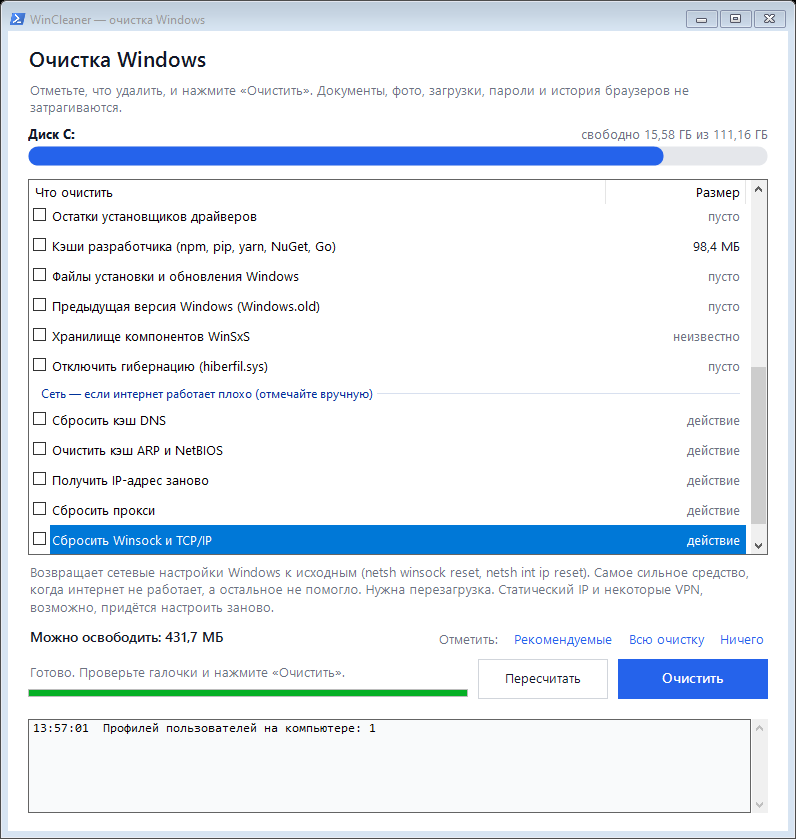
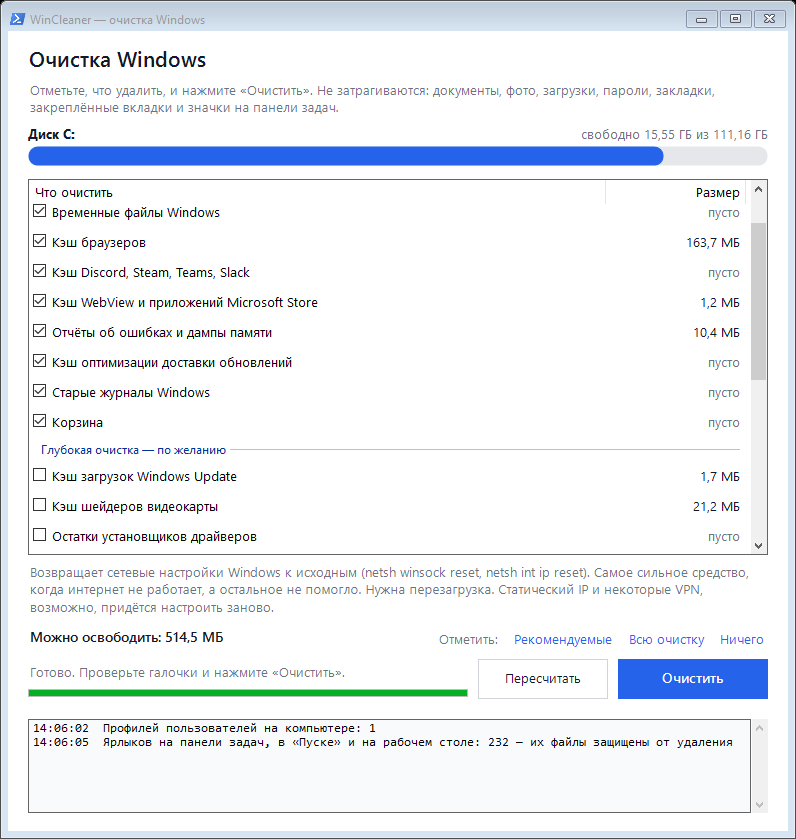
Never touch bookmarks, pinned tabs and taskbar pins
- Stop closing browser windows: ask the user to exit the browser instead.
  Closing windows one by one made the browser remember only the last window,
  losing other windows and their pinned tabs. Only window-less background
  processes (e.g. Edge startup boost) are ended; Steam never is.
- Read every .lnk on the taskbar, Start menu and desktop before scanning and
  cleaning; files, icons and working folders they point to are never deleted.
- Firefox: keep thumbnails (new-tab tiles) and jumpListCache (taskbar menu icons).
- README: document what is guaranteed to stay untouched.

Claude-Session: https://claude.ai/code/session_015hKn49dFBEaKCxaQnPR6UA

diff --git a/src/WinCleaner.cs b/src/WinCleaner.cs
@@ -22,8 +22,8 @@ using Microsoft.Win32;
 [assembly: AssemblyTitle("WinCleaner")]
 [assembly: AssemblyDescription("Очистка Windows от временных файлов и кэшей")]
 [assembly: AssemblyProduct("WinCleaner")]
-[assembly: AssemblyVersion("1.0.0.0")]
-[assembly: AssemblyFileVersion("1.0.0.0")]
+[assembly: AssemblyVersion("1.1.0.0")]
+[assembly: AssemblyFileVersion("1.1.0.0")]
 
 namespace WinCleaner
 {
@@ -60,6 +60,7 @@ namespace WinCleaner
         public string[] Local = new string[0];
         public string[] Roaming = new string[0];
         public bool Firefox;
+        public bool NeverKill;              // даже фоновый процесс не завершаем (Steam: может идти игра или загрузка)
     }
 
     sealed class CleanItem
@@ -109,7 +110,13 @@ namespace WinCleaner
                     try { a = fsi.Attributes; } catch { continue; }
                     if ((a & FileAttributes.ReparsePoint) != 0) continue;
                     var sub = fsi as DirectoryInfo;
-                    if (sub != null) { dirs.Add(sub); stack.Push(sub); continue; }
+                    if (sub != null)
+                    {
+                        if (IsProtectedDir(sub.FullName)) continue;
+                        dirs.Add(sub);
+                        stack.Push(sub);
+                        continue;
+                    }
                     var f = (FileInfo)fsi;
                     if (keep != null && keep.Contains(f.Name, StringComparer.OrdinalIgnoreCase)) continue;
                     freed += DeleteFile(f, cutoff, c.DryRun);
@@ -130,10 +137,42 @@ namespace WinCleaner
             return freed;
         }
 
+        // Файлы и папки, на которые ссылаются ярлыки панели задач, «Пуска» и рабочего стола (см. Pins).
+        // Их не удаляем никогда, даже если они лежат во временной папке. Наборы заменяются целиком.
+        static HashSet<string> protFiles = new HashSet<string>(StringComparer.OrdinalIgnoreCase);
+        static HashSet<string> protDirs = new HashSet<string>(StringComparer.OrdinalIgnoreCase);
+
+        public static void SetProtected(IEnumerable<string> paths)
+        {
+            var files = new HashSet<string>(StringComparer.OrdinalIgnoreCase);
+            var dirs = new HashSet<string>(StringComparer.OrdinalIgnoreCase);
+            foreach (var raw in paths)
+            {
+                string p;
+                try
+                {
+                    p = Environment.ExpandEnvironmentVariables(raw.Trim().Trim('"'));
+                    if (!Path.IsPathRooted(p)) continue;
+                    p = Path.GetFullPath(p).TrimEnd('\\');
+                }
+                catch { continue; }
+                if (Directory.Exists(p)) { dirs.Add(p); continue; }
+                files.Add(p);
+                string parent = Path.GetDirectoryName(p);
+                if (!string.IsNullOrEmpty(parent)) dirs.Add(parent.TrimEnd('\\'));
+            }
+            protFiles = files;
+            protDirs = dirs;
+        }
+
+        static bool IsProtectedFile(string p) { var s = protFiles; return s.Count > 0 && s.Contains(p); }
+        static bool IsProtectedDir(string p) { var s = protDirs; return s.Count > 0 && s.Contains(p.TrimEnd('\\')); }
+
         static long DeleteFile(FileInfo f, DateTime cutoff, bool dry)
         {
             try
             {
+                if (IsProtectedFile(f.FullName)) return 0;
                 if (f.LastWriteTime > cutoff || f.CreationTime > cutoff) return 0;
                 long len = f.Length;
                 if (!dry)
@@ -415,13 +454,85 @@ namespace WinCleaner
             return l.Count > 0;
         }
 
-        // Сначала вежливо (как крестик окна), через 8 секунд — принудительно.
-        public static void Close(AppDef a)
+        public static bool HasWindow(AppDef a)
         {
-            foreach (var p in Find(a)) using (p) { try { p.CloseMainWindow(); } catch { } }
-            for (int i = 0; i < 16 && IsRunning(a); i++) Thread.Sleep(500);
+            bool any = false;
+            foreach (var p in Find(a))
+            {
+                try { if (p.MainWindowHandle != IntPtr.Zero) any = true; } catch { }
+                p.Dispose();
+            }
+            return any;
+        }
+
+        // Завершает только фоновые процессы без окон (например, Edge с «ускорением запуска») — сессия
+        // браузера к этому моменту уже сохранена. Окна не закрываем никогда: если закрывать их по одному,
+        // браузер запомнит только последнее окно и остальные окна с закреплёнными вкладками пропадут.
+        public static bool KillBackground(AppDef a)
+        {
+            if (a.NeverKill || HasWindow(a)) return false;
             foreach (var p in Find(a)) using (p) { try { p.Kill(); } catch { } }
             Thread.Sleep(700);
+            return true;
+        }
+    }
+
+    // Ярлыки на панели задач, в «Пуске» и на рабочем столе всех пользователей: всё, на что они
+    // указывают (программа, значок, рабочая папка), попадает в защищённый список Fs.
+    static class Pins
+    {
+        public static int Load(List<string> users)
+        {
+            var lnks = new List<string>();
+            string pd = Environment.GetFolderPath(Environment.SpecialFolder.CommonApplicationData);
+            foreach (var u in users)
+            {
+                Collect(lnks, Path.Combine(u, @"AppData\Roaming\Microsoft\Internet Explorer\Quick Launch"), 4);
+                Collect(lnks, Path.Combine(u, @"AppData\Roaming\Microsoft\Windows\Start Menu"), 6);
+                Collect(lnks, Path.Combine(u, "Desktop"), 0);
+                Collect(lnks, Path.Combine(u, @"OneDrive\Desktop"), 0);
+            }
+            Collect(lnks, Path.Combine(pd, @"Microsoft\Windows\Start Menu"), 6);
+            Collect(lnks, Environment.GetFolderPath(Environment.SpecialFolder.CommonDesktopDirectory), 0);
+            Collect(lnks, Environment.GetFolderPath(Environment.SpecialFolder.DesktopDirectory), 0);
+            lnks = lnks.Distinct(StringComparer.OrdinalIgnoreCase).ToList();
+
+            var paths = new List<string>();
+            object shell = null;
+            try { shell = Activator.CreateInstance(Type.GetTypeFromProgID("WScript.Shell")); } catch { }
+            if (shell != null)
+            {
+                foreach (var l in lnks)
+                {
+                    try
+                    {
+                        object sc = shell.GetType().InvokeMember("CreateShortcut", BindingFlags.InvokeMethod, null, shell, new object[] { l });
+                        paths.Add(Prop(sc, "TargetPath"));
+                        paths.Add(Prop(sc, "WorkingDirectory"));
+                        string icon = Prop(sc, "IconLocation");
+                        int comma = icon.LastIndexOf(',');
+                        paths.Add(comma > 0 ? icon.Substring(0, comma) : icon);
+                        Marshal.ReleaseComObject(sc);
+                    }
+                    catch { }
+                }
+                Marshal.ReleaseComObject(shell);
+            }
+            Fs.SetProtected(paths.Where(p => !string.IsNullOrEmpty(p)));
+            return lnks.Count;
+        }
+
+        static string Prop(object o, string name)
+        {
+            return (o.GetType().InvokeMember(name, BindingFlags.GetProperty, null, o, null) as string) ?? "";
+        }
+
+        static void Collect(List<string> res, string dir, int depth)
+        {
+            if (string.IsNullOrEmpty(dir) || !Directory.Exists(dir)) return;
+            try { res.AddRange(Directory.GetFiles(dir, "*.lnk")); } catch { }
+            if (depth <= 0) return;
+            foreach (var d in Fs.SubDirs(dir)) Collect(res, d, depth - 1);
         }
     }
 
@@ -454,7 +565,7 @@ namespace WinCleaner
             new AppDef { Name = "Discord", Procs = new[] { "Discord" }, Roaming = new[] { "discord" } },
             new AppDef { Name = "Slack", Procs = new[] { "slack" }, Roaming = new[] { "Slack" } },
             new AppDef { Name = "Microsoft Teams", Procs = new[] { "Teams" }, Roaming = new[] { @"Microsoft\Teams" } },
-            new AppDef { Name = "Steam", Procs = new[] { "steam", "steamwebhelper" }, Local = new[] { @"Steam\htmlcache" } },
+            new AppDef { Name = "Steam", Procs = new[] { "steam", "steamwebhelper" }, NeverKill = true, Local = new[] { @"Steam\htmlcache" } },
         };
 
         static IEnumerable<string> Roots(AppDef a, string user)
@@ -501,7 +612,8 @@ namespace WinCleaner
                     if (a.Firefox)
                     {
                         foreach (var p in Fs.SubDirs(Path.Combine(u, @"AppData\Local\Mozilla\Firefox\Profiles")))
-                            foreach (var n in new[] { "cache2", "startupCache", "thumbnails", "jumpListCache" })
+                            // thumbnails (картинки плиток новой вкладки) и jumpListCache (значки меню на панели задач) не трогаем
+                            foreach (var n in new[] { "cache2", "startupCache" })
                                 s += Fs.ClearDir(c, Path.Combine(p, n));
                     }
                     else
@@ -549,7 +661,7 @@ namespace WinCleaner
             L.Add(new CleanItem
             {
                 Title = "Кэш браузеров",
-                Description = "Chrome, Edge, Яндекс, Opera, Brave, Vivaldi, Firefox. Удаляется только кэш: пароли, история, закладки, cookies и вкладки остаются. Если браузер открыт, программа предложит его закрыть.",
+                Description = "Chrome, Edge, Яндекс, Opera, Brave, Vivaldi, Firefox. Удаляется только кэш. Закладки и панель закладок, закреплённые вкладки, табло и экспресс-панель, пароли, история и cookies остаются. Открытый браузер программа не закрывает — попросит закрыть его самостоятельно.",
                 Apps = Browsers,
                 Run = c => ClearApps(c, Browsers)
             });
@@ -970,7 +1082,7 @@ namespace WinCleaner
             });
             header.Controls.Add(new Label
             {
-                Text = "Отметьте, что удалить, и нажмите «Очистить». Документы, фото, загрузки, пароли и история браузеров не затрагиваются.",
+                Text = "Отметьте, что удалить, и нажмите «Очистить». Не затрагиваются: документы, фото, загрузки, пароли, закладки, закреплённые вкладки и значки на панели задач.",
                 ForeColor = Muted,
                 Location = new Point(S(20), S(50)),
                 Size = new Size(S(740), S(40)),
@@ -1269,6 +1381,8 @@ namespace WinCleaner
             UpdateTotal();
             RunBackground(() =>
             {
+                int pins = Pins.Load(Catalog.Users);
+                ctx.Log("Ярлыков на панели задач, в «Пуске» и на рабочем столе: " + pins + " — их файлы защищены от удаления");
                 int i = 0;
                 foreach (var it in items)
                 {
@@ -1319,19 +1433,25 @@ namespace WinCleaner
                         MessageBoxDefaultButton.Button2) != DialogResult.Yes) return;
             }
 
-            var running = sel.Where(x => x.Apps != null).SelectMany(x => x.Apps)
-                             .Where(a => AppControl.IsRunning(a)).ToList();
-            bool closeApps = false;
-            if (running.Count > 0)
+            // Открытые окна программ не закрываем сами — только просим пользователя (см. AppControl.KillBackground).
+            var apps = sel.Where(x => x.Apps != null).SelectMany(x => x.Apps).ToList();
+            var background = new List<AppDef>();
+            string nl = Environment.NewLine;
+            while (true)
             {
+                var running = apps.Where(a => AppControl.IsRunning(a)).ToList();
+                var windowed = running.Where(a => a.NeverKill || AppControl.HasWindow(a)).ToList();
+                if (windowed.Count == 0) { background = running; break; }
                 var r = MessageBox.Show(this,
-                    "Сейчас открыты: " + string.Join(", ", running.Select(a => a.Name)) + "." + Environment.NewLine + Environment.NewLine +
-                    "Пока программа открыта, её кэш почистить нельзя." + Environment.NewLine + Environment.NewLine +
-                    "Да — закрыть их сейчас (браузеры восстановят вкладки при следующем запуске)" + Environment.NewLine +
-                    "Нет — не закрывать и пропустить их кэш",
-                    "Открытые программы", MessageBoxButtons.YesNoCancel, MessageBoxIcon.Question);
-                if (r == DialogResult.Cancel) return;
-                closeApps = r == DialogResult.Yes;
+                    "Сейчас открыты: " + string.Join(", ", windowed.Select(a => a.Name)) + "." + nl + nl +
+                    "Чтобы почистить их кэш, закройте их сами. Браузер закрывайте через меню → «Выход»: " +
+                    "так он сохранит все окна и закреплённые вкладки. Сама программа окна не закрывает." + nl + nl +
+                    "Повторить — я закрыл, проверить ещё раз" + nl +
+                    "Пропустить — очистить остальное, а кэш этих программ не трогать" + nl +
+                    "Прервать — отменить очистку",
+                    "Открытые программы", MessageBoxButtons.AbortRetryIgnore, MessageBoxIcon.Information);
+                if (r == DialogResult.Abort) return;
+                if (r == DialogResult.Ignore) break;
             }
 
             var ctx = NewCtx(false);
@@ -1342,11 +1462,9 @@ namespace WinCleaner
             AppendLog("Начинаю очистку…");
             RunBackground(() =>
             {
-                if (closeApps)
-                {
-                    Ui(() => status.Text = "Закрываю программы…");
-                    foreach (var a in running) AppControl.Close(a);
-                }
+                Pins.Load(Catalog.Users);
+                foreach (var a in background)
+                    if (AppControl.KillBackground(a)) ctx.Log(a.Name + " работал в фоне без окон — фоновый процесс завершён");
                 int i = 0;
                 foreach (var it in sel)
                 {

diff --git a/README.md b/README.md
@@ -70,9 +70,11 @@
    **Группа «Сеть»** в самом низу списка никогда не отмечается сама: включайте её пункты
    вручную, только если есть проблемы с интернетом (см. [порядок действий](#если-плохо-работает-интернет)).
 4. **Нажмите «Очистить».**
-   - Если открыт браузер (или Discord, Steam и т. п.), программа предложит его закрыть:
-     кэш открытой программы почистить нельзя. «Да» закроет программу (браузер восстановит
-     вкладки при следующем запуске), «Нет» пропустит её кэш.
+   - Если открыт браузер (или Discord, Steam и т. п.), программа попросит закрыть его
+     **самостоятельно**. Кэш открытой программы почистить нельзя, а сама программа окна не
+     закрывает, чтобы не потерялись окна и закреплённые вкладки. Браузер закрывайте через
+     меню → «Выход», затем нажмите «Повторить». «Пропустить» почистит всё остальное без кэша
+     этой программы.
    - Если отмечены необратимые пункты (корзина, Windows.old, гибернация), программа
      переспросит и покажет, сколько они занимают.
 5. **Дождитесь окончания.** Ход работы виден в журнале внизу окна. В конце появится
@@ -94,7 +96,7 @@
 |---|---|---|
 | Временные файлы программ | `%LOCALAPPDATA%\Temp` всех пользователей. Файлы **моложе суток пропускаются** | Никаких |
 | Временные файлы Windows | `C:\Windows\Temp`, тоже только старше суток | Никаких |
-| Кэш браузеров | Папки кэша Chrome, Edge, Яндекс Браузера, Opera / Opera GX, Brave, Vivaldi, Chromium, Firefox — во всех профилях браузера | Сайты при первом заходе откроются чуть медленнее. Пароли, история, закладки, cookies, вкладки не затрагиваются |
+| Кэш браузеров | Папки кэша Chrome, Edge, Яндекс Браузера, Opera / Opera GX, Brave, Vivaldi, Chromium, Firefox — во всех профилях браузера | Сайты при первом заходе откроются чуть медленнее. Закладки и панель закладок, закреплённые вкладки, табло и экспресс-панель, пароли, история, cookies не затрагиваются |
 | Кэш Discord, Steam, Teams, Slack | Кэш встроенного браузера этих программ | Переписка, настройки и игры не затрагиваются |
 | Кэш WebView и приложений Microsoft Store | `INetCache` и временные папки приложений из Store | Никаких |
 | Отчёты об ошибках и дампы памяти | Отчёты Windows Error Reporting, `Minidump`, `MEMORY.DMP`, `LiveKernelReports`, `CrashDumps` | Нельзя будет расследовать старые «синие экраны» по дампам |
@@ -148,7 +150,18 @@
 ## 4. Что программа не трогает никогда
 
 - Документы, фото, видео, музыку, «Загрузки», рабочий стол — любые ваши файлы.
-- Пароли, cookies, историю, закладки, расширения и открытые вкладки браузеров.
+- **Закладки и панель закладок** браузеров вместе с их значками. В Chrome, Edge, Яндексе, Opera,
+  Brave и Vivaldi это файлы `Bookmarks` и `Favicons`, в Firefox — `places.sqlite` и
+  `favicons.sqlite`. Программа удаляет только папки с кэшем, а эти файлы лежат отдельно.
+- **Закреплённые вкладки, окна и сессии** браузеров, табло Яндекса, экспресс-панель Opera,
+  плитки и их картинки на новой вкладке. Открытый браузер программа не закрывает сама, а просит
+  закрыть его через меню «Выход»: так браузер сохраняет все окна и закреплённые вкладки.
+- **Закрепы на панели задач и в «Пуске», ярлыки на рабочем столе и их связь с программами.**
+  Перед очисткой программа читает все ярлыки на панели задач, в «Пуске» и на рабочем столе и не
+  удаляет ни одного файла или папки, на которые они ссылаются (программу, значок, рабочую папку),
+  даже если они лежат во временной папке. Кэш значков Windows, списки переходов (меню по правому
+  щелчку на панели задач) и ассоциации файлов тоже не трогаются.
+- Пароли, cookies, историю и расширения браузеров.
 - Переписку и настройки мессенджеров, игры и их сохранения.
 - Точки восстановления системы.
 - Папку `Prefetch`: её очистка не ускоряет, а **замедляет** запуск программ, хотя многие
@@ -283,5 +296,11 @@ L.Add(new CleanItem
   - `SHEmptyRecycleBin` для корзины;
   - `ipconfig`, `netsh`, `nbtstat` для сетевых пунктов (код возврата каждой команды пишется
     в журнал, при ошибке — и последняя строка её вывода).
-- **Закрытие программ.** Сначала вежливо, как крестиком окна. Если за 8 секунд программа не
-  закрылась, процесс завершается принудительно.
+- **Открытые программы.** Окна программа не закрывает никогда: если закрывать окна браузера по
+  одному, он запомнит только последнее, и остальные окна с закреплёнными вкладками пропадут.
+  Завершаются только фоновые процессы без окон (например, Edge с «ускорением запуска»), когда
+  сессия браузера уже сохранена. Steam не завершается даже в фоне.
+- **Защита ярлыков.** Перед подсчётом и перед очисткой программа читает все ярлыки `.lnk` на
+  панели задач (`Quick Launch\User Pinned`), в «Пуске» и на рабочем столе всех пользователей.
+  Файлы, на которые они указывают (программа, значок, рабочая папка), и папки с этими файлами
+  попадают в защищённый список и не удаляются ни при каких условиях.
